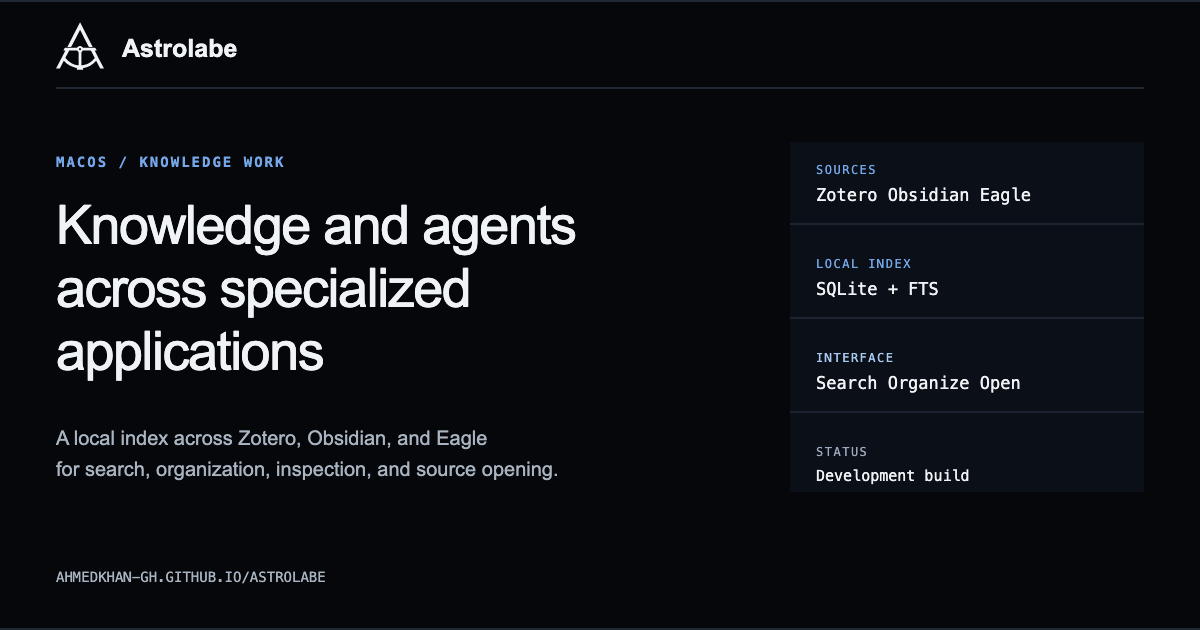
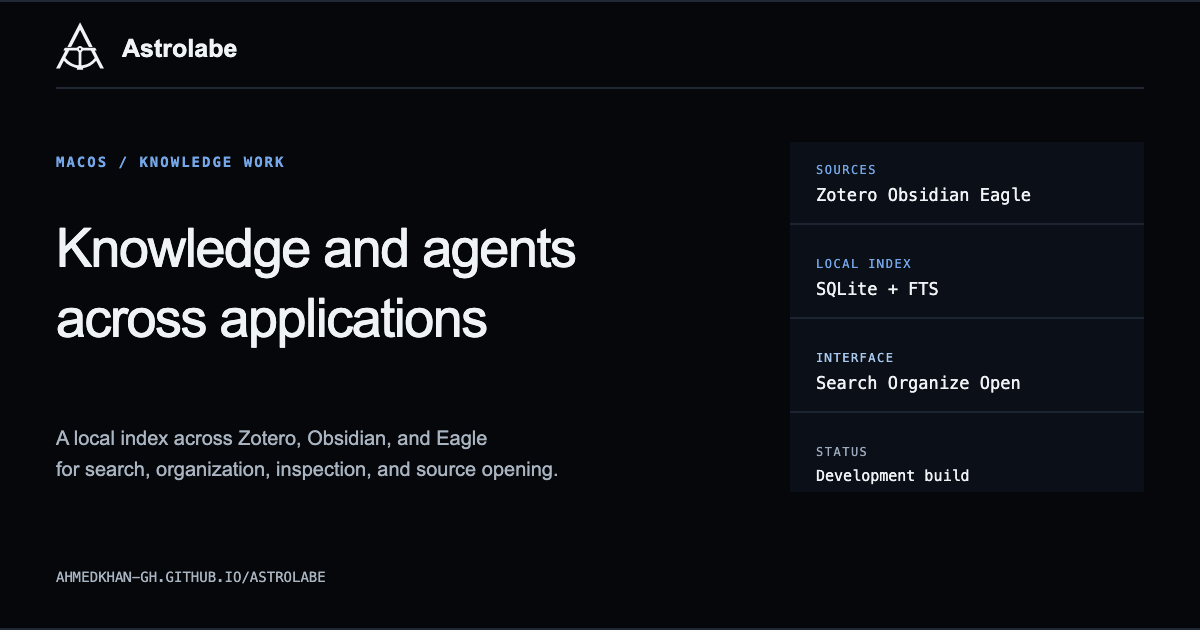
Shorten Astrolabe headline

Changed region(s): [[0.0308, 0.3317, 0.4933, 0.6032]]

diff --git a/site/index.html b/site/index.html
@@ -3,7 +3,7 @@
 <head>
   <meta charset="utf-8">
   <meta name="viewport" content="width=device-width, initial-scale=1">
-  <title>Astrolabe — knowledge and agents across specialized applications</title>
+  <title>Astrolabe — knowledge and agents across applications</title>
   <meta name="description" content="Astrolabe augments knowledge work across Zotero, Obsidian, and Eagle with a local index for search, organization, inspection, and source opening.">
   <meta name="theme-color" content="#05070b">
   <meta name="color-scheme" content="dark">
@@ -13,7 +13,7 @@
 
   <meta property="og:type" content="website">
   <meta property="og:site_name" content="Astrolabe">
-  <meta property="og:title" content="Astrolabe — knowledge and agents across specialized applications">
+  <meta property="og:title" content="Astrolabe — knowledge and agents across applications">
   <meta property="og:description" content="A local index across Zotero, Obsidian, and Eagle for unified search, organization, inspection, and source opening.">
   <meta property="og:url" content="https://ahmedkhan-gh.github.io/astrolabe/">
   <meta property="og:image" content="https://ahmedkhan-gh.github.io/astrolabe/assets/og.png">
@@ -42,7 +42,7 @@
     <section class="home-hero container" id="top">
       <div>
         <p class="section-label">Astrolabe / macOS</p>
-        <h1>Knowledge and agents across specialized applications</h1>
+        <h1>Knowledge and agents across applications</h1>
       </div>
       <div class="hero-summary">
         <p>Astrolabe indexes Zotero, Obsidian, and Eagle locally, bringing search, organization, inspection, and source opening into one desktop workspace.</p>
